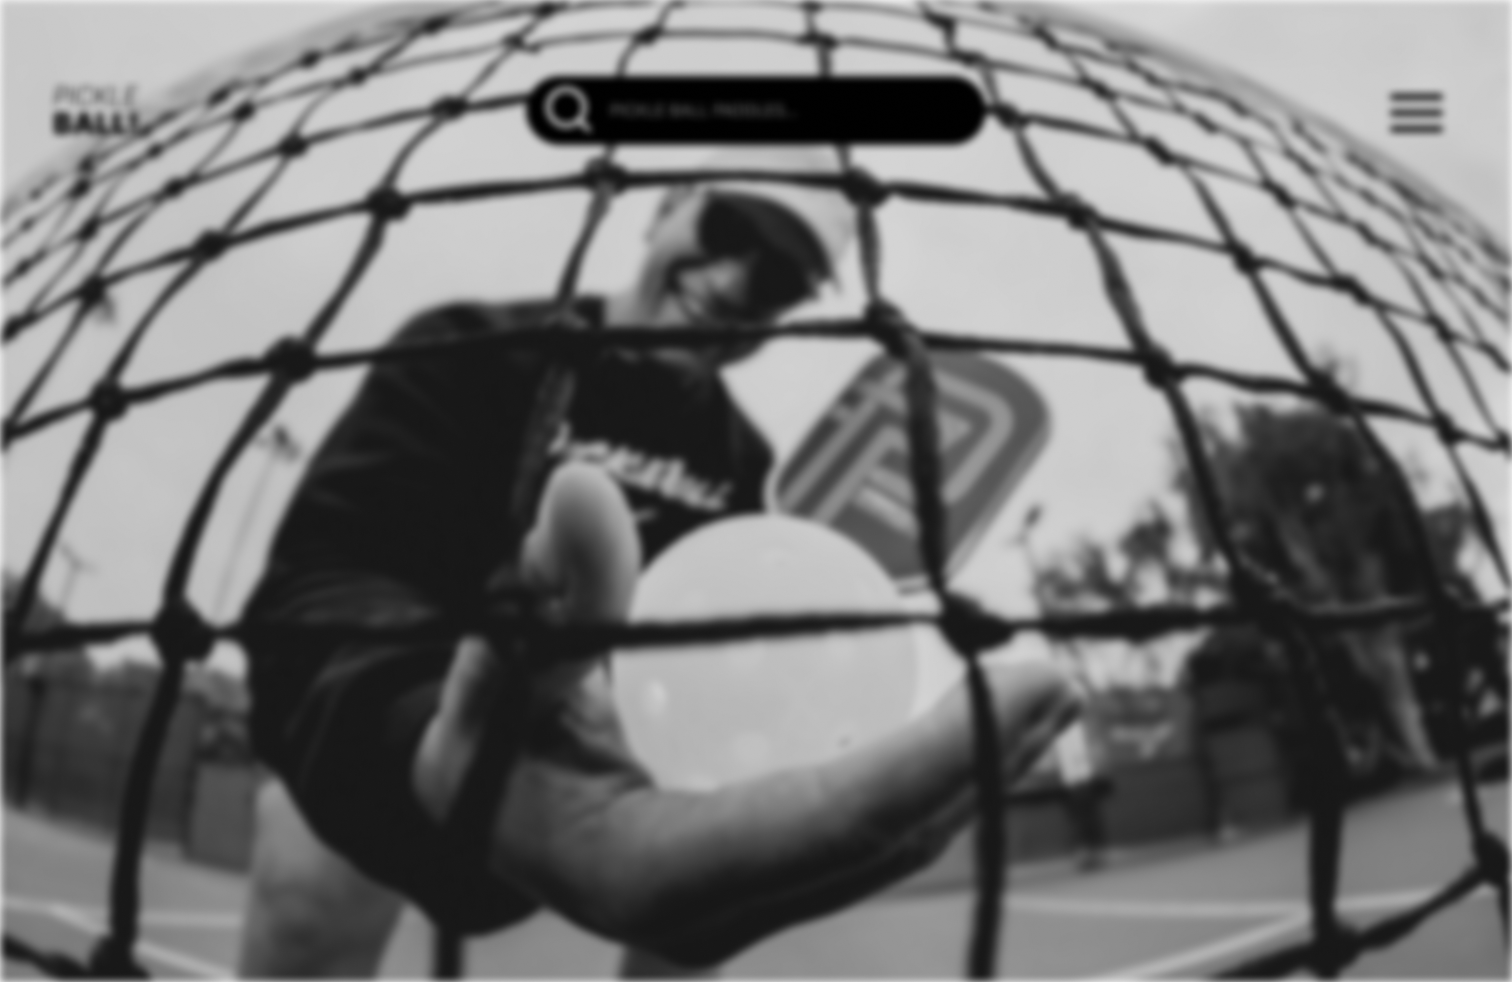
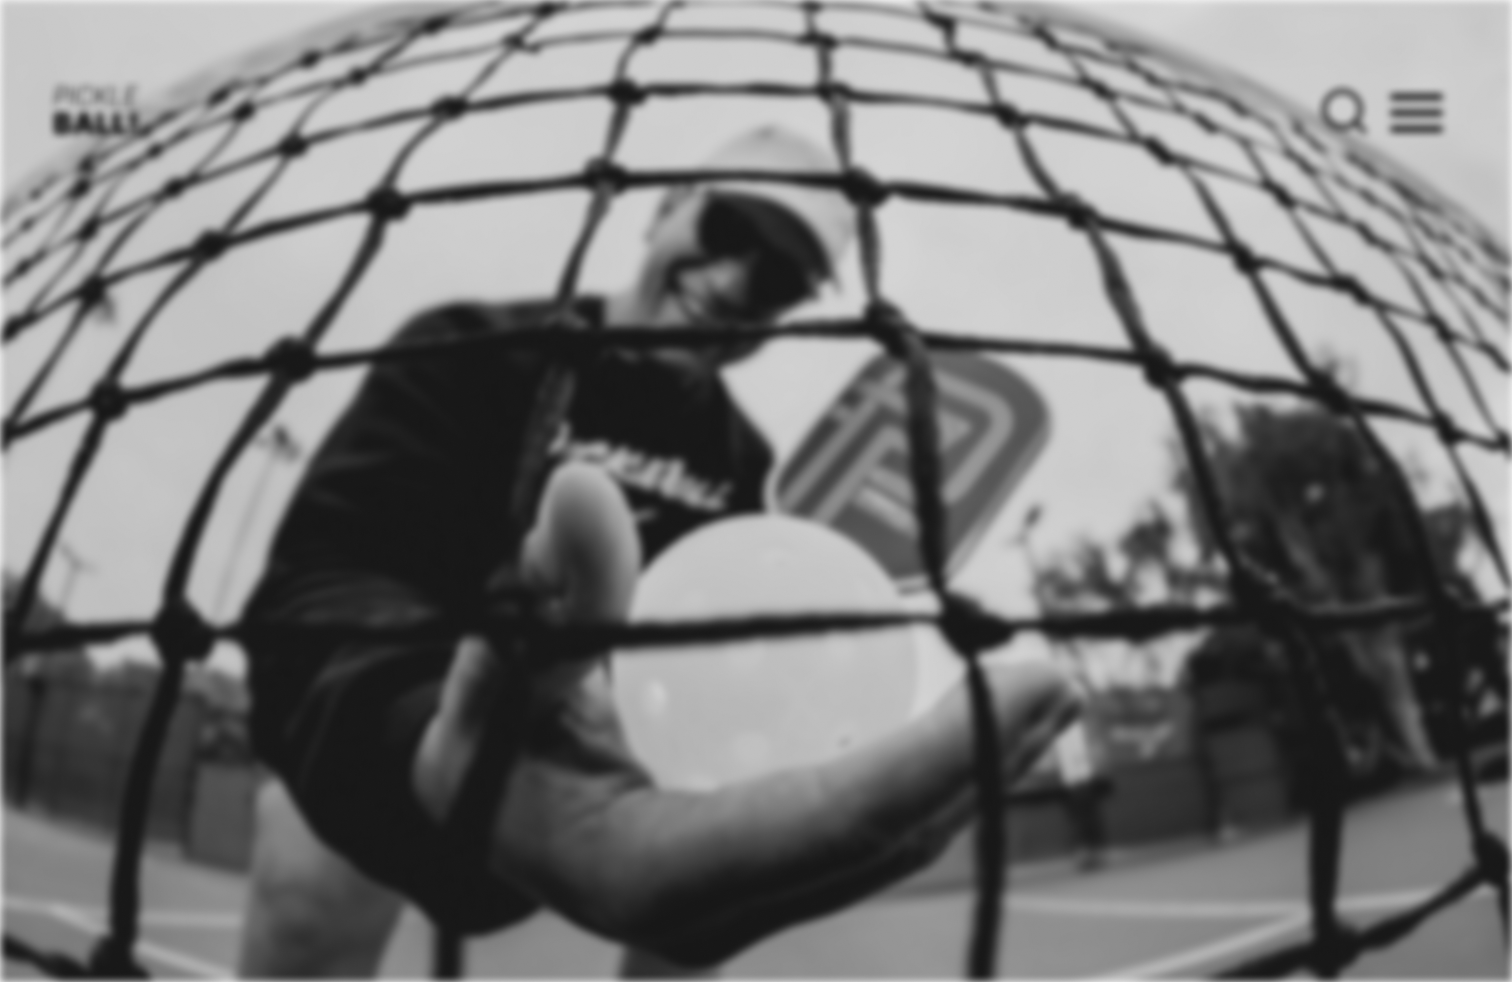
updated glow button/images/etc.

Changed region(s): [[0.3419, 0.0611, 0.6528, 0.1527], [0.8704, 0.0916, 0.9015, 0.1527]]

diff --git a/styles.css b/styles.css
@@ -2,7 +2,7 @@
   box-sizing: border-box;
 }
 
-/* modal info */
+/* MODAL JAVA STUFF */
 
 .modal {
   position: fixed;
@@ -74,7 +74,10 @@
 }
 
 
-/* non-java */
+/* ------------------------------------------- NON-JAVA ------------------------------------------- */
+
+
+/* CSS glow button */
 
 .glow-button {
     display: inline-block;
@@ -85,6 +88,7 @@
     text-transform: uppercase;
     text-decoration: none;
     background-color: #00D4BF;
+    border: none;
     border-radius: 89px;
 }
 
@@ -97,6 +101,11 @@
     overflow: hidden;
 }
 
+/* html */
+
+html {
+  background-image: url(images/bkg-image.png);
+}
 
 nav {
   display: flex;
@@ -104,5 +113,25 @@ nav {
   justify-content: space-between;
   margin-left: auto;
   margin-right: auto;
+  list-style-type: none;
+}
+
+nav ul {
+  display: flex;
+  width: 144px;
+  justify-content: space-between;
+  align-items: center;
+  padding: 20px 0px 20px 0px;
+  list-style: none;
+  padding: 0;
+  margin: 0;
+}
+
+nav ul .logo {
+  display: flex;
+  width: auto; 
+  justify-content: space-between;
+  align-items: center;
+  padding: 20px 0px 20px 0px;
 }
 

diff --git a/index.html b/index.html
@@ -12,19 +12,21 @@
     <body>
         <header>
       <nav>
+        <div class="logo">
         <ul>
           <li><a href=""><img src="images/logo.png" /></a></li>
-          <li><a href=""><img src="images/search-bar.png" /></a></li>
+        </ul>
+        </div>
+        <ul>
+          <li><a href=""><img src="images/search.png" /></a></li>
           <li><a href=""><img src="images/hamburg-menu.png" /></a></li>
         </ul>
       </nav>
         </header>
         <main>
             <h1>New Pickle Balls Available</h1>
-            <a href="#" class="glow-button"><span>View Now</span></a>
-        </main>
 
-  <button data-modal-target="#modal">Open Modal</button>
+  <button data-modal-target="#modal" href="#" class="glow-button"><span>View Now</span></button>
   <div class="modal" id="modal">
     <div class="modal-header">
       <button data-close-button class="close-button">&times;</button>
@@ -37,6 +39,7 @@
   </div>
   <div id="overlay"></div>
 
+    </main>
     </body>
 </html>
 
